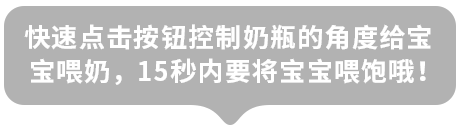
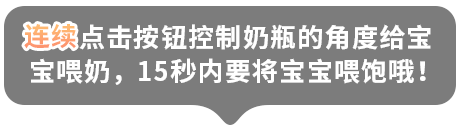
Replace tips texture

diff --git a/BYM1/BYM.js b/BYM1/BYM.js
@@ -14,6 +14,8 @@ var WaitToClick=false;
 var tipsTimerUp=null;
 var tipsTimerDown=null;
 AR.onload = function() {
+
+
 	excuteOpperate = new HomeView();
 	excuteOpperate.Initialize();
 	tmp_NaiPingROt = AR.get_rotation("naiping_Mod_01");
@@ -146,7 +148,7 @@ SLAMView.prototype = {
 							},800);
 						}
 
-						if (curDegreed >= 45) {
+						if (curDegreed >= 60) {
 							gameState = "faile";
 							GameOver();
 							AR.clearInterval(rotTimer);
@@ -156,7 +158,7 @@ SLAMView.prototype = {
 						AR.rotate("naiping_Mod_01", 0, step, 0);
 						preessed = false;
 					} else {
-						if(curDegreed<=-25 && tipsTimerDown==null){
+						if(curDegreed<=-45 && tipsTimerDown==null){
 							AR.set_visiable("UI2_tishi",true);
 							AR.set_texture("UI2_tishi","BYM.fbm/tishi5.png");
 							if(tipsTimerDown!=null)AR.clearInterval(tipsTimerDown);
@@ -166,7 +168,7 @@ SLAMView.prototype = {
 								tipsTimerDown=null;
 							},800);
 						}
-						if (curDegreed < -45) {
+						if (curDegreed < -100) {
 							gameState = "faile";
 							GameOver();
 							AR.clearInterval(rotTimer);
@@ -175,7 +177,7 @@ SLAMView.prototype = {
 						curDegreed+=antHelper.toDegree(step);
 						AR.rotate("naiping_Mod_01", 0, step, 0);
 					}
-				}, 50);
+				}, 100);
 			}
 			if (preessed) preessed = false;
 			else preessed = true;
@@ -195,7 +197,7 @@ SLAMView.prototype = {
 		AR.set_texture("UI2_tishi","BYM.fbm/tishi.png");
 
 		var curROt = AR.get_rotation("naiping_Mod_01");
-		if(Math.abs(antHelper.toDegree(curROt.y)<=15)){
+		if(Math.abs(antHelper.toDegree(curROt.y)<=100)){
 			AR.rotate("naiping_Mod_01", 0, antHelper.toRadian(-curDegreed),0);
 		}
 		else
